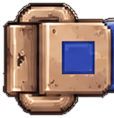
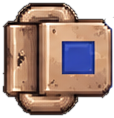
리본 걸기 새 버클(tip) 그림, 3단계 초안·금지어 수정(선생님), 에필로그 분기: e1 뒤에 e2를 건너뛰도록 goto e3

Changed region(s): [[0.8947, 0.1271, 1.0, 0.8136]]

diff --git a/dist/game/index.html b/dist/game/index.html
@@ -485,8 +485,8 @@ const CONFIG={
   /* 서류함 미니게임: 리본을 몇 번 당겨야 하는지(pulls), 한 번 당긴 뒤 쉬는 시간(gap, 1000=1초), 들켰을 때 의심도(caughtSus)와 도로 들어가는 횟수(caughtBack) */
   m3:{wrongSus:3, snap:40},   // wrongSus: 색이 다른 곳에 걸었을 때 의심도, snap: 끝점을 인식하는 거리(클수록 쉬움)
   m2:{holdSec:6, caughtSus:10, caughtBackSec:1.5, fakeChance:0.3, quickChance:0.2},   // holdSec: 꾹 눌러야 하는 누적 시간(초), caughtBackSec: 들켰을 때 되감기는 시간(초), fakeChance: 헛기침만 하고 안 돌아볼 확률, quickChance: 금방 또 헛기침할 확률
-  s3:{draft:"오늘 밤 일본 경찰 몰래 독립 격문을 찍는다!",
-    banned:["일본","일제","총독부","경찰","격문","독립","만세","물러","왜놈","식민","침략"],
+  s3:{draft:"오늘 밤 OO 인쇄소에서 일본 경찰 몰래 국권 회복을 위한 선언문을 찍는다!",
+    banned:["일본","일제","총독부","경찰","선언문","독립","만세","국권","왜놈","식민","침략","왜구"],
     symbols:["봄","겨울","새벽","별","씨앗","꽃","강","달","해","아침","불씨","바람","나무","그날","님","뿌리","눈","얼음","밤","새"]}
 };
 
@@ -519,9 +519,10 @@ const EPI=[
  {spr:"contact",mood:"happy",who:"접선책",text:"수고했네. 자네가 쓴 시는 검열 통과 원고에 섞여 인쇄소 동지에게 무사히 닿았어."},
  {spr:"contact",mood:"calm",who:"접선책",text:()=>S.poem?("읽어 보니 이런 시였지. “"+S.poem.trim().replace(/\s*\n+\s*/g," / ").slice(0,90)+"” 동지들은 여기서 이런 뜻을 읽어 냈네. “"+S.meaning.trim().slice(0,60)+"”"):"검열관들이 읽고도 눈치를 못 채다니, 대단하군."},
  {spr:"contact",mood:"side",who:"접선책",text:"그런데 하나 묻겠네. 아침에 정문에서 댔다는 이름, ‘미나미 다로’. 그 이름에 무슨 뜻이 있는지 알고 썼나?",choices:[
-   {t:"그냥 흔한 일본식 이름 아닌가요?",goto:"e1"},{t:"혹시 총독과 관련이 있나요?",goto:"e1"}]},
- {id:"e1",spr:"contact",mood:"side",who:"접선책",text:"미나미 지로(南次郎). 1936년부터 총독으로 부임했고, 창씨개명도 1940년 2월에 시작된 그의 '업적'이지."},
- {spr:"contact",mood:"calm",who:"접선책",text:"창씨개명을 따르지 않은 우리 민족이 어떤 꼴을 당하고 있는지는 알고 있겠지. 학교에서 내쫓기고 직장에서 해고되고... 제 이름을 지키는 일조차 용기가 필요한 시대라니."},
+   {t:"그냥 흔한 일본식 이름 아닌가요?",goto:"e1"},{t:"혹시 총독과 관련이 있나요?",goto:"e2"}]},
+ {id:"e1",spr:"contact",mood:"side",who:"접선책",text:"...그냥 우연이었나. 미나미 지로(南次郎). 1936년부터 총독으로 부임했고, 창씨개명도 1940년 2월에 시작된 그의 '업적'이지.",goto:"e3"},
+ {id:"e2",spr:"contact",mood:"happy",who:"접선책",text:"그래, 잘 알고 있군. 미나미 지로(南次郎). 1936년부터 총독으로 부임했고, 창씨개명도 1940년 2월에 시작된 그의 '업적'이지."},
+ {id:"e3",spr:"contact",mood:"calm",who:"접선책",text:"창씨개명을 따르지 않은 우리 민족이 어떤 꼴을 당하고 있는지는 알고 있겠지. 학교에서 내쫓기고 직장에서 해고되고... 제 이름을 지키는 일조차 용기가 필요한 시대라니."},
  {spr:"contact",mood:"side",who:"접선책",text:"그런데 일본에서 ‘다로’는 맏아들에게, ‘지로’는 둘째 아들에게 흔히 붙이던 이름이야. 그러니 ‘미나미 다로’는 ‘미나미 지로의 형님’쯤 되는 이름이지. 총독의 형님이라 말한 셈이니, 경비원이 멍청하기에 망정이지."},
  {spr:"contact",mood:"happy",who:"접선책",text:"저번 주에는 어느 고등학교 학생이 '미치노미야 히로히토(미친놈이야 히로히토=천황)'라고 이름을 적어 냈다고 하더군. 본받을만한 기개야."},
  {bg:"street",spr:"contact",mood:"calm",who:"접선책",text:"창씨개명 같은 치욕적인 상황 속에서도 저항하는 우리 민족 답게, 문학 작품을 쓰는 문인들도 상징 속에 진짜 하고 싶은 말을 숨기며 같은 방식으로 맞서오고 있지. 우리가 잊지 않는 한, 조국의 독립은 반드시 올 걸세."}

diff --git a/dist/tv/index.html b/dist/tv/index.html
@@ -208,8 +208,8 @@ const CONFIG={
   /* 서류함 미니게임: 리본을 몇 번 당겨야 하는지(pulls), 한 번 당긴 뒤 쉬는 시간(gap, 1000=1초), 들켰을 때 의심도(caughtSus)와 도로 들어가는 횟수(caughtBack) */
   m3:{wrongSus:3, snap:40},   // wrongSus: 색이 다른 곳에 걸었을 때 의심도, snap: 끝점을 인식하는 거리(클수록 쉬움)
   m2:{holdSec:6, caughtSus:10, caughtBackSec:1.5, fakeChance:0.3, quickChance:0.2},   // holdSec: 꾹 눌러야 하는 누적 시간(초), caughtBackSec: 들켰을 때 되감기는 시간(초), fakeChance: 헛기침만 하고 안 돌아볼 확률, quickChance: 금방 또 헛기침할 확률
-  s3:{draft:"오늘 밤 일본 경찰 몰래 독립 격문을 찍는다!",
-    banned:["일본","일제","총독부","경찰","격문","독립","만세","물러","왜놈","식민","침략"],
+  s3:{draft:"오늘 밤 OO 인쇄소에서 일본 경찰 몰래 국권 회복을 위한 선언문을 찍는다!",
+    banned:["일본","일제","총독부","경찰","선언문","독립","만세","국권","왜놈","식민","침략","왜구"],
     symbols:["봄","겨울","새벽","별","씨앗","꽃","강","달","해","아침","불씨","바람","나무","그날","님","뿌리","눈","얼음","밤","새"]}
 };
 
@@ -242,9 +242,10 @@ const EPI=[
  {spr:"contact",mood:"happy",who:"접선책",text:"수고했네. 자네가 쓴 시는 검열 통과 원고에 섞여 인쇄소 동지에게 무사히 닿았어."},
  {spr:"contact",mood:"calm",who:"접선책",text:()=>S.poem?("읽어 보니 이런 시였지. “"+S.poem.trim().replace(/\s*\n+\s*/g," / ").slice(0,90)+"” 동지들은 여기서 이런 뜻을 읽어 냈네. “"+S.meaning.trim().slice(0,60)+"”"):"검열관들이 읽고도 눈치를 못 채다니, 대단하군."},
  {spr:"contact",mood:"side",who:"접선책",text:"그런데 하나 묻겠네. 아침에 정문에서 댔다는 이름, ‘미나미 다로’. 그 이름에 무슨 뜻이 있는지 알고 썼나?",choices:[
-   {t:"그냥 흔한 일본식 이름 아닌가요?",goto:"e1"},{t:"혹시 총독과 관련이 있나요?",goto:"e1"}]},
- {id:"e1",spr:"contact",mood:"side",who:"접선책",text:"미나미 지로(南次郎). 1936년부터 총독으로 부임했고, 창씨개명도 1940년 2월에 시작된 그의 '업적'이지."},
- {spr:"contact",mood:"calm",who:"접선책",text:"창씨개명을 따르지 않은 우리 민족이 어떤 꼴을 당하고 있는지는 알고 있겠지. 학교에서 내쫓기고 직장에서 해고되고... 제 이름을 지키는 일조차 용기가 필요한 시대라니."},
+   {t:"그냥 흔한 일본식 이름 아닌가요?",goto:"e1"},{t:"혹시 총독과 관련이 있나요?",goto:"e2"}]},
+ {id:"e1",spr:"contact",mood:"side",who:"접선책",text:"...그냥 우연이었나. 미나미 지로(南次郎). 1936년부터 총독으로 부임했고, 창씨개명도 1940년 2월에 시작된 그의 '업적'이지.",goto:"e3"},
+ {id:"e2",spr:"contact",mood:"happy",who:"접선책",text:"그래, 잘 알고 있군. 미나미 지로(南次郎). 1936년부터 총독으로 부임했고, 창씨개명도 1940년 2월에 시작된 그의 '업적'이지."},
+ {id:"e3",spr:"contact",mood:"calm",who:"접선책",text:"창씨개명을 따르지 않은 우리 민족이 어떤 꼴을 당하고 있는지는 알고 있겠지. 학교에서 내쫓기고 직장에서 해고되고... 제 이름을 지키는 일조차 용기가 필요한 시대라니."},
  {spr:"contact",mood:"side",who:"접선책",text:"그런데 일본에서 ‘다로’는 맏아들에게, ‘지로’는 둘째 아들에게 흔히 붙이던 이름이야. 그러니 ‘미나미 다로’는 ‘미나미 지로의 형님’쯤 되는 이름이지. 총독의 형님이라 말한 셈이니, 경비원이 멍청하기에 망정이지."},
  {spr:"contact",mood:"happy",who:"접선책",text:"저번 주에는 어느 고등학교 학생이 '미치노미야 히로히토(미친놈이야 히로히토=천황)'라고 이름을 적어 냈다고 하더군. 본받을만한 기개야."},
  {bg:"street",spr:"contact",mood:"calm",who:"접선책",text:"창씨개명 같은 치욕적인 상황 속에서도 저항하는 우리 민족 답게, 문학 작품을 쓰는 문인들도 상징 속에 진짜 하고 싶은 말을 숨기며 같은 방식으로 맞서오고 있지. 우리가 잊지 않는 한, 조국의 독립은 반드시 올 걸세."}

diff --git a/story.js b/story.js
@@ -63,8 +63,8 @@ const CONFIG={
   /* 서류함 미니게임: 리본을 몇 번 당겨야 하는지(pulls), 한 번 당긴 뒤 쉬는 시간(gap, 1000=1초), 들켰을 때 의심도(caughtSus)와 도로 들어가는 횟수(caughtBack) */
   m3:{wrongSus:3, snap:40},   // wrongSus: 색이 다른 곳에 걸었을 때 의심도, snap: 끝점을 인식하는 거리(클수록 쉬움)
   m2:{holdSec:6, caughtSus:10, caughtBackSec:1.5, fakeChance:0.3, quickChance:0.2},   // holdSec: 꾹 눌러야 하는 누적 시간(초), caughtBackSec: 들켰을 때 되감기는 시간(초), fakeChance: 헛기침만 하고 안 돌아볼 확률, quickChance: 금방 또 헛기침할 확률
-  s3:{draft:"오늘 밤 일본 경찰 몰래 독립 격문을 찍는다!",
-    banned:["일본","일제","총독부","경찰","격문","독립","만세","물러","왜놈","식민","침략"],
+  s3:{draft:"오늘 밤 OO 인쇄소에서 일본 경찰 몰래 국권 회복을 위한 선언문을 찍는다!",
+    banned:["일본","일제","총독부","경찰","선언문","독립","만세","국권","왜놈","식민","침략","왜구"],
     symbols:["봄","겨울","새벽","별","씨앗","꽃","강","달","해","아침","불씨","바람","나무","그날","님","뿌리","눈","얼음","밤","새"]}
 };
 
@@ -97,9 +97,10 @@ const EPI=[
  {spr:"contact",mood:"happy",who:"접선책",text:"수고했네. 자네가 쓴 시는 검열 통과 원고에 섞여 인쇄소 동지에게 무사히 닿았어."},
  {spr:"contact",mood:"calm",who:"접선책",text:()=>S.poem?("읽어 보니 이런 시였지. “"+S.poem.trim().replace(/\s*\n+\s*/g," / ").slice(0,90)+"” 동지들은 여기서 이런 뜻을 읽어 냈네. “"+S.meaning.trim().slice(0,60)+"”"):"검열관들이 읽고도 눈치를 못 채다니, 대단하군."},
  {spr:"contact",mood:"side",who:"접선책",text:"그런데 하나 묻겠네. 아침에 정문에서 댔다는 이름, ‘미나미 다로’. 그 이름에 무슨 뜻이 있는지 알고 썼나?",choices:[
-   {t:"그냥 흔한 일본식 이름 아닌가요?",goto:"e1"},{t:"혹시 총독과 관련이 있나요?",goto:"e1"}]},
- {id:"e1",spr:"contact",mood:"side",who:"접선책",text:"미나미 지로(南次郎). 1936년부터 총독으로 부임했고, 창씨개명도 1940년 2월에 시작된 그의 '업적'이지."},
- {spr:"contact",mood:"calm",who:"접선책",text:"창씨개명을 따르지 않은 우리 민족이 어떤 꼴을 당하고 있는지는 알고 있겠지. 학교에서 내쫓기고 직장에서 해고되고... 제 이름을 지키는 일조차 용기가 필요한 시대라니."},
+   {t:"그냥 흔한 일본식 이름 아닌가요?",goto:"e1"},{t:"혹시 총독과 관련이 있나요?",goto:"e2"}]},
+ {id:"e1",spr:"contact",mood:"side",who:"접선책",text:"...그냥 우연이었나. 미나미 지로(南次郎). 1936년부터 총독으로 부임했고, 창씨개명도 1940년 2월에 시작된 그의 '업적'이지.",goto:"e3"},
+ {id:"e2",spr:"contact",mood:"happy",who:"접선책",text:"그래, 잘 알고 있군. 미나미 지로(南次郎). 1936년부터 총독으로 부임했고, 창씨개명도 1940년 2월에 시작된 그의 '업적'이지."},
+ {id:"e3",spr:"contact",mood:"calm",who:"접선책",text:"창씨개명을 따르지 않은 우리 민족이 어떤 꼴을 당하고 있는지는 알고 있겠지. 학교에서 내쫓기고 직장에서 해고되고... 제 이름을 지키는 일조차 용기가 필요한 시대라니."},
  {spr:"contact",mood:"side",who:"접선책",text:"그런데 일본에서 ‘다로’는 맏아들에게, ‘지로’는 둘째 아들에게 흔히 붙이던 이름이야. 그러니 ‘미나미 다로’는 ‘미나미 지로의 형님’쯤 되는 이름이지. 총독의 형님이라 말한 셈이니, 경비원이 멍청하기에 망정이지."},
  {spr:"contact",mood:"happy",who:"접선책",text:"저번 주에는 어느 고등학교 학생이 '미치노미야 히로히토(미친놈이야 히로히토=천황)'라고 이름을 적어 냈다고 하더군. 본받을만한 기개야."},
  {bg:"street",spr:"contact",mood:"calm",who:"접선책",text:"창씨개명 같은 치욕적인 상황 속에서도 저항하는 우리 민족 답게, 문학 작품을 쓰는 문인들도 상징 속에 진짜 하고 싶은 말을 숨기며 같은 방식으로 맞서오고 있지. 우리가 잊지 않는 한, 조국의 독립은 반드시 올 걸세."}
